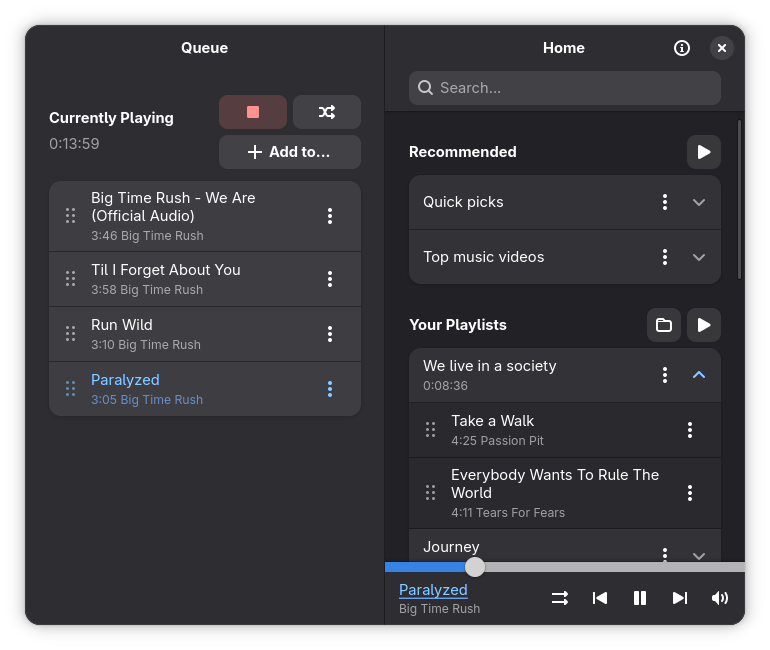
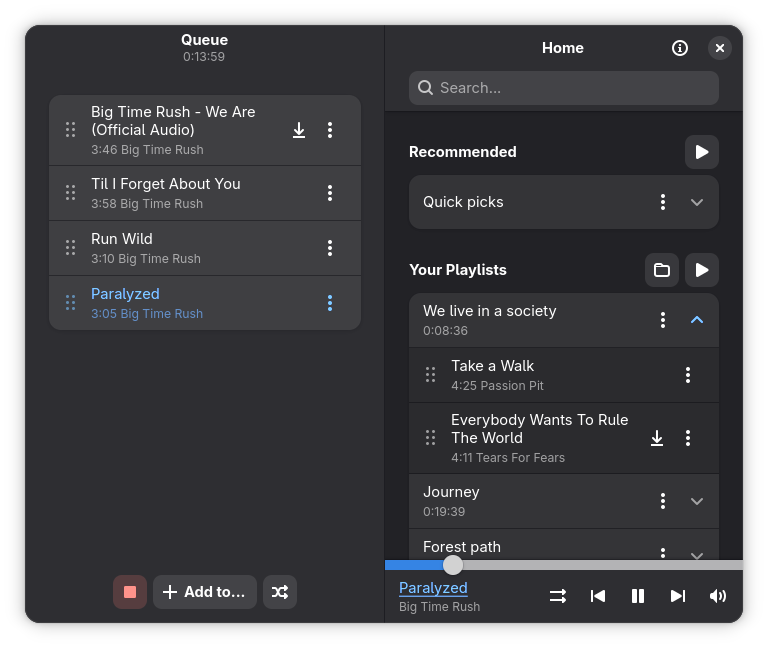
Release v4.3.0 zehkira/monophony!141

diff --git a/source/monophony/__init__.py b/source/monophony/__init__.py
@@ -4,7 +4,7 @@ import pathlib
 import logboth
 
 
-__version__ = '4.2.1'
+__version__ = '4.3.0'
 ID = 'io.gitlab.zehkira.Monophony' # Full ID per Freedesktop standards
 NAME = 'monophony' # Use for app executable, directories and so on
 DISPLAY_NAME = 'Monophony' # For window titles and such - do not use in logic
